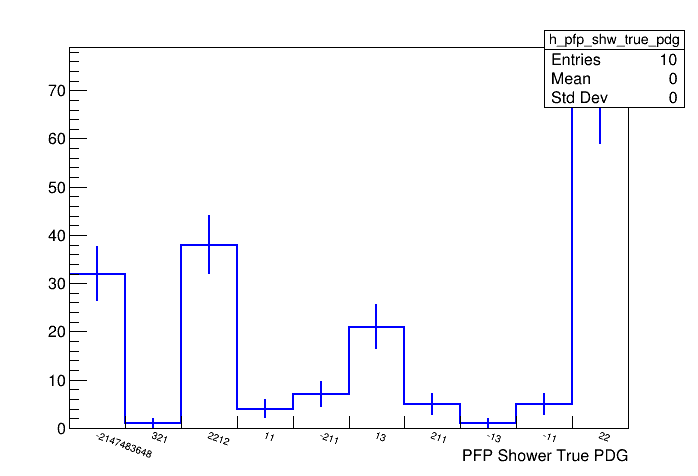
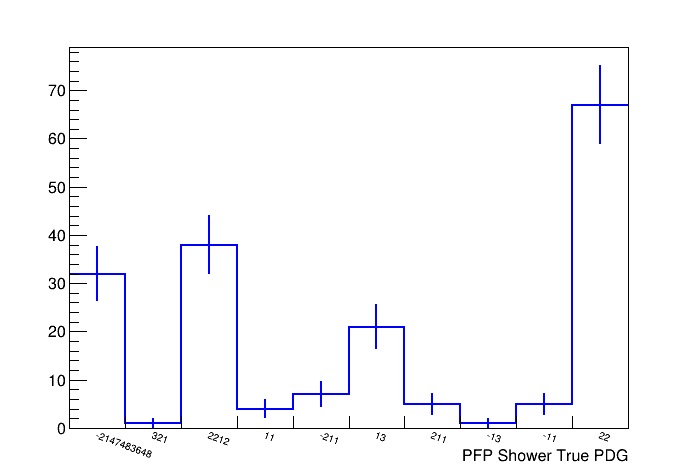
added tmatch plot

Changed region(s): [[0.7822, 0.0588, 0.9928, 0.2353]]

diff --git a/pyROOT/Scripts/basic_analysis.py b/pyROOT/Scripts/basic_analysis.py
@@ -75,6 +75,11 @@ photon_trk_scores = []
 
 pfp_shw_true_pdgs = []
 
+# 2D histo to hold the eff vs purity of the slice truth matching
+h_2d_slc_pur_eff = ROOT.TH2D("h_2d_slc_pur_eff", "", 10, 0, 1, 10, 0, 1)
+h_2d_slc_pur_eff.GetXaxis().SetTitle("Slice TMatch Eff")
+h_2d_slc_pur_eff.GetYaxis().SetTitle("Slice TMatch Pur")
+
 
 evCount = 0
 for event in recTree:
@@ -125,6 +130,11 @@ for event in recTree:
 	num_shws = len(shw_br[shw_keys[0]])
 	num_shw_mc = len(shw_mc_br["rec.slc.reco.pfp.shw.truth.p.pdg"])
 	
+	# Loop over the slice info:
+	for num in range(len(slc_br["rec.slc.tmatch.eff"])):
+		h_2d_slc_pur_eff.Fill(slc_br["rec.slc.tmatch.eff"][num], slc_br["rec.slc.tmatch.pur"][num])
+
+
 	# Loop over the true shower info --> Maybe can see if it indicates pfps that aren't actually showers ????
 	for num in range(len(shw_mc_br["rec.slc.reco.pfp.shw.truth.p.pdg"])):
 		pfp_shw_true_pdgs.append(shw_mc_br["rec.slc.reco.pfp.shw.truth.p.pdg"][num])
@@ -161,9 +171,16 @@ for num in range(len(unique_slc_pdgs)):
 	h_slc_true_pdg.GetXaxis().SetBinLabel(num + 1, str(unique_slc_pdgs[num]))
 
 c = ROOT.TCanvas("c", "c", 700, 500)
+h_slc_true_pdg.SetLineWidth(2)
 h_slc_true_pdg.Draw("HIST")
 h_slc_true_pdg.GetXaxis().SetTitle("True Slice PDG")
 c.SaveAs(fig_dir+"test_slice_true_pdg.png")
+
+
+c = ROOT.TCanvas("c", "c", 700, 500)
+h_2d_slc_pur_eff.SetStats(0)
+h_2d_slc_pur_eff.Draw("Colz")
+c.SaveAs(fig_dir+"test_slice_tmatch_eff_vs_pur.png")
 
 
 # PFP Shower True PDGs
@@ -174,6 +191,7 @@ for num in range(len(unique_pfp_shw_true_pdgs)):
 	h_pfp_shw_true_pdg.GetXaxis().SetBinLabel(num + 1, str(unique_pfp_shw_true_pdgs[num]))
 
 c = ROOT.TCanvas("c", "c", 700, 500)
+h_pfp_shw_true_pdg.SetStats(0)
 h_pfp_shw_true_pdg.SetLineColor(4)
 h_pfp_shw_true_pdg.SetLineWidth(2)
 h_pfp_shw_true_pdg.Draw("HISTE")
